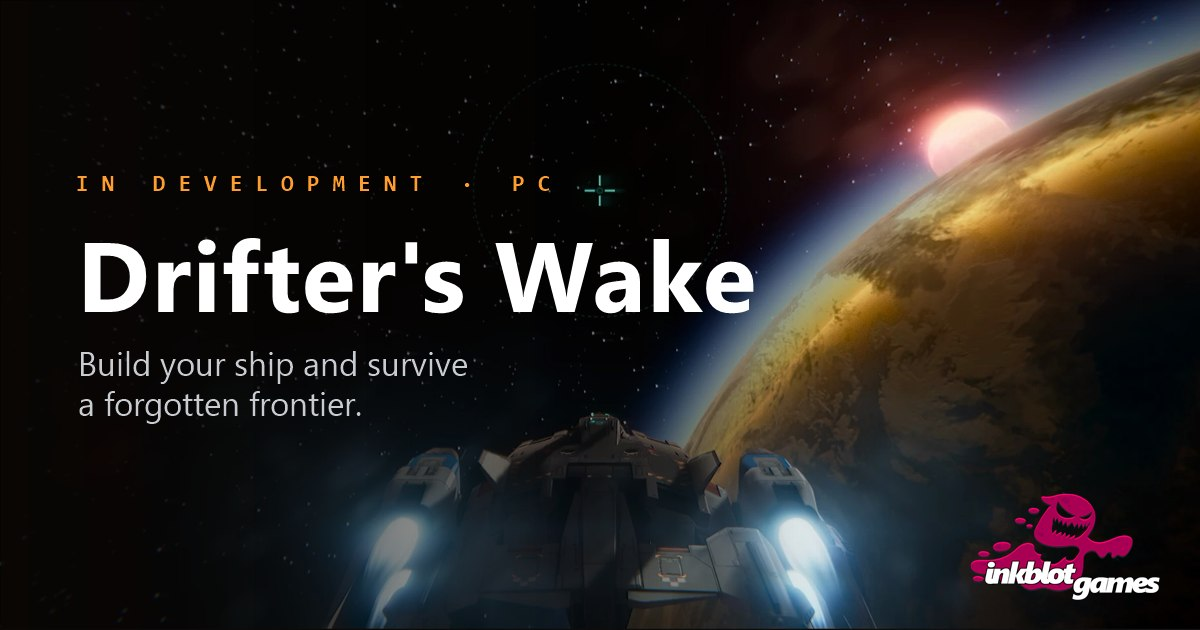
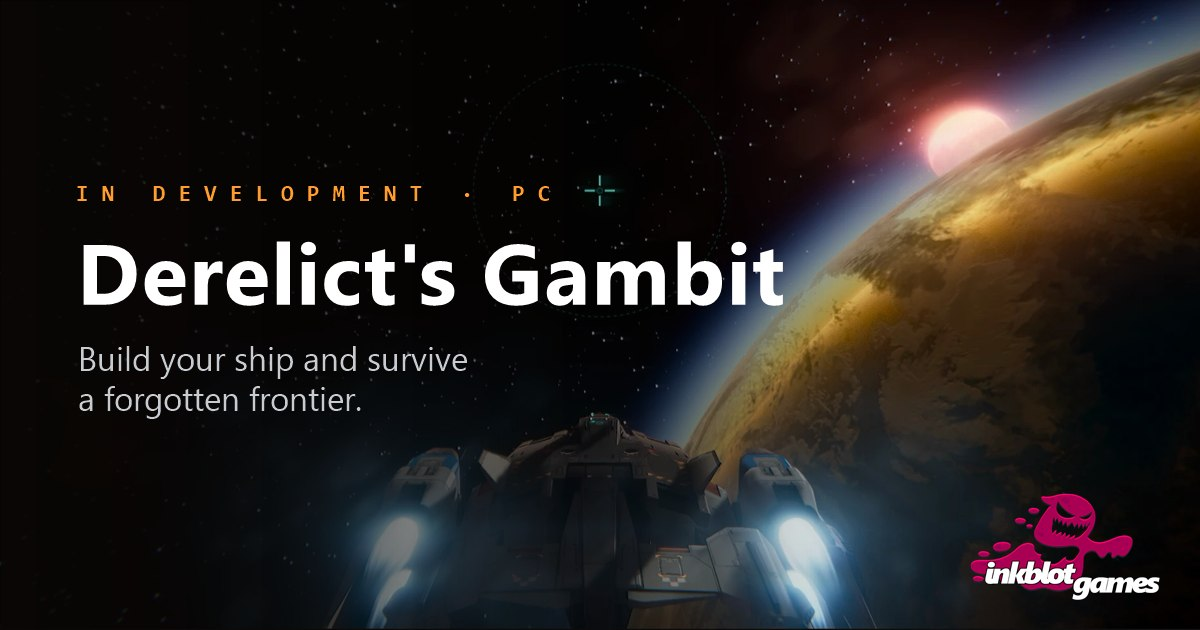
Rename the game to Derelict's Gambit
- Game page moves to /derelicts-gambit/; /drifters-wake/ redirects there
- Updated titles, meta tags, nav links, sitemap and the share image

diff --git a/drifters-wake/index.html b/drifters-wake/index.html
@@ -3,154 +3,15 @@
 <head>
   <meta charset="utf-8">
   <meta name="viewport" content="width=device-width, initial-scale=1">
-  <title>Drifter's Wake | Inkblot Games</title>
-  <meta name="description" content="Build your ship and survive a forgotten frontier. Explore derelicts, haul valuable salvage, and cross a seamless solar system.">
-  <meta property="og:title" content="Drifter's Wake">
-  <meta property="og:description" content="Build your ship and survive a forgotten frontier.">
-  <meta property="og:type" content="website">
-  <meta property="og:url" content="https://inkblotgames.co/drifters-wake/">
-  <meta property="og:image" content="https://inkblotgames.co/share-game.jpg">
-  <meta property="og:image:width" content="1200">
-  <meta property="og:image:height" content="630">
-  <meta name="twitter:card" content="summary_large_image">
-  <meta name="twitter:site" content="@InkblotGamesCo">
-  <link rel="canonical" href="https://inkblotgames.co/drifters-wake/">
+  <title>Derelict's Gambit | Inkblot Games</title>
+  <meta name="robots" content="noindex">
   <meta name="color-scheme" content="dark">
-  <meta name="darkreader-lock">
-  <meta name="theme-color" content="#0a0705">
-  <link rel="icon" href="../favicon.png" type="image/png">
-  <link rel="preconnect" href="https://fonts.googleapis.com">
-  <link rel="preconnect" href="https://fonts.gstatic.com" crossorigin>
-  <link rel="stylesheet" href="https://fonts.googleapis.com/css2?family=JetBrains+Mono:wght@400;700&family=Space+Grotesk:wght@400;500;700&display=swap">
-  <link rel="stylesheet" href="../style.css">
-  <script type="module" src="../site.js"></script>
+  <meta http-equiv="refresh" content="0; url=/derelicts-gambit/">
+  <link rel="canonical" href="https://inkblotgames.co/derelicts-gambit/">
+  <script>location.replace("/derelicts-gambit/" + location.hash);</script>
+  <style>body{margin:0;min-height:100vh;display:grid;place-items:center;background:#0a0705;color:#fff;font-family:system-ui,sans-serif}a{color:#ff9d2e}</style>
 </head>
-<body class="theme-game">
-  <nav class="nav">
-    <a class="nav-logo" href="../"><img src="../logo.png" alt="Inkblot Games" width="634" height="358"></a>
-    <ul>
-      <li><a href="#rim">The rim</a></li>
-      <li><a href="#game">Gameplay</a></li>
-      <li><a href="#media">Media</a></li>
-      <li><a href="#follow">Follow</a></li>
-    </ul>
-  </nav>
-
-  <header class="hero hero-game">
-    <img class="hero-bg" src="../screenshots/ship-sunrise.webp" alt="" width="1864" height="1127" fetchpriority="high">
-    <video class="hero-video" data-src="../video/hero.mp4" muted loop playsinline preload="none" aria-hidden="true" tabindex="-1"></video>
-    <div class="frame" aria-hidden="true"><i></i><i></i><i></i><i></i></div>
-    <p class="hud hud-tl"><span class="dot"></span>In development</p>
-    <p class="hud hud-tr">Early preview · PC</p>
-    <div class="hero-copy">
-      <p class="hud eyebrow">Working title</p>
-      <h1>Drifter's Wake</h1>
-      <p class="lede">Build your ship and survive a forgotten frontier. Explore derelicts, haul valuable salvage, and cross a seamless solar system. The fleet that vanished forty years ago is drifting back, and not everything is what it seems. Cosmic horrors lurk among the wrecks—and some can follow you home.</p>
-      <div class="btn-row">
-        <a class="btn" href="#media">See screenshots</a>
-        <a class="btn btn-ghost" href="https://www.youtube.com/@InkblotGamesCo/" rel="noopener" target="_blank"><svg class="btn-icon" width="18" height="18" viewBox="0 0 24 24" fill="currentColor" aria-hidden="true"><path d="M23.498 6.186a3.016 3.016 0 0 0-2.122-2.136C19.505 3.545 12 3.545 12 3.545s-7.505 0-9.377.505A3.017 3.017 0 0 0 .502 6.186C0 8.07 0 12 0 12s0 3.93.502 5.814a3.016 3.016 0 0 0 2.122 2.136c1.871.505 9.376.505 9.376.505s7.505 0 9.377-.505a3.015 3.015 0 0 0 2.122-2.136C24 15.93 24 12 24 12s0-3.93-.502-5.814zM9.545 15.568V8.432L15.818 12l-6.273 3.568z"/></svg>YouTube</a>
-        <a class="btn btn-ghost" href="/discord/" rel="noopener" target="_blank"><svg class="btn-icon" width="18" height="18" viewBox="0 0 24 24" fill="currentColor" aria-hidden="true"><path d="M20.317 4.3698a19.7913 19.7913 0 00-4.8851-1.5152.0741.0741 0 00-.0785.0371c-.211.3753-.4447.8648-.6083 1.2495-1.8447-.2762-3.68-.2762-5.4868 0-.1636-.3933-.4058-.8742-.6177-1.2495a.077.077 0 00-.0785-.037 19.7363 19.7363 0 00-4.8852 1.515.0699.0699 0 00-.0321.0277C.5334 9.0458-.319 13.5799.0992 18.0578a.0824.0824 0 00.0312.0561c2.0528 1.5076 4.0413 2.4228 5.9929 3.0294a.0777.0777 0 00.0842-.0276c.4616-.6304.8731-1.2952 1.226-1.9942a.076.076 0 00-.0416-.1057c-.6528-.2476-1.2743-.5495-1.8722-.8923a.077.077 0 01-.0076-.1277c.1258-.0943.2517-.1923.3718-.2914a.0743.0743 0 01.0776-.0105c3.9278 1.7933 8.18 1.7933 12.0614 0a.0739.0739 0 01.0785.0095c.1202.099.246.1981.3728.2924a.077.077 0 01-.0066.1276 12.2986 12.2986 0 01-1.873.8914.0766.0766 0 00-.0407.1067c.3604.698.7719 1.3628 1.225 1.9932a.076.076 0 00.0842.0286c1.961-.6067 3.9495-1.5219 6.0023-3.0294a.077.077 0 00.0313-.0552c.5004-5.177-.8382-9.6739-3.5485-13.6604a.061.061 0 00-.0312-.0286zM8.02 15.3312c-1.1825 0-2.1569-1.0857-2.1569-2.419 0-1.3332.9555-2.4189 2.157-2.4189 1.2108 0 2.1757 1.0952 2.1568 2.419 0 1.3332-.9555 2.4189-2.1569 2.4189zm7.9748 0c-1.1825 0-2.1569-1.0857-2.1569-2.419 0-1.3332.9554-2.4189 2.1569-2.4189 1.2108 0 2.1757 1.0952 2.1568 2.419 0 1.3332-.946 2.4189-2.1568 2.4189Z"/></svg>Join our Discord</a>
-      </div>
-    </div>
-  </header>
-
-  <main>
-    <div class="band">
-      <img class="band-bg" src="../screenshots/firefight.webp" alt="" width="2000" height="1125" loading="lazy">
-    <section id="rim" class="section reveal">
-      <p class="hud eyebrow">01 · The rim</p>
-      <h2>Too far out for anyone to send help.</h2>
-      <p class="lede">The rim colonies were outposts, built to wait for a fleet carrying everything they needed: fabricators, reactor cores, medicine, seed, and tens of thousands of colonists asleep in cryo. The fleet never arrived.</p>
-      <p class="lede">For forty years the rim has been eating itself. Stations are stripped to the frame. Settlements have gone quiet. The people still out here keep worn-out machines running and take what they need from whoever has it. A working air filter can be worth more than a gun, and people will kill for either.</p>
-
-      <h3 class="subhead">The ships are coming back wrong.</h3>
-      <p class="lede">Now and then one of the fleet's ships drifts home, dark and silent. A single reactor core can keep a settlement alive for another year, so everyone comes running, and they come armed.</p>
-      <p class="lede">Most of them are only wrecks. Some are not. Nobody on the rim agrees on where the fleet went. They agree that crews who board the wrong ship do not come back the same, if they come back at all.</p>
-    </section>
-    </div>
-
-    <div class="band">
-      <img class="band-bg" src="../screenshots/boarding-corridor.webp" alt="" width="2000" height="1128" loading="lazy">
-    <section id="game" class="section reveal">
-      <p class="hud eyebrow">02 · How it plays</p>
-      <h2>You're a salvager with a ship to keep alive.</h2>
-      <p class="lede">Answer a distress call, take a job, or chase a rumor of a wreck nobody has stripped yet. You never know what you've docked with until you're inside, or who else had the same idea. What you bring back gets built into your ship. More cargo space, a better workshop, backup life support: each one lets you travel farther out and survive what you find there.</p>
-
-      <div class="cards">
-        <article class="card">
-          <p class="hud">01 · Fly</p>
-          <h3>A seamless solar system</h3>
-          <p>Pilot your ship through combat, docking, and planetary approaches. On long crossings, leave the pilot's seat to repair and prepare while the ship flies on.</p>
-        </article>
-        <article class="card">
-          <p class="hud">02 · Salvage</p>
-          <h3>Hands-on salvage</h3>
-          <p>Restore power, cut through sealed doors, and carry out everything from pocket-sized supplies to bulky machinery. When something interrupts the haul, you put the prize down to draw your weapon.</p>
-        </article>
-        <article class="card">
-          <p class="hud">03 · Build</p>
-          <h3>Build your ship</h3>
-          <p>Design your ship from the hull up. Expand it section by section, lay out the interior, and install machinery pulled from wrecks. What you build decides what you can risk.</p>
-        </article>
-        <article class="card">
-          <p class="hud">04 · Survive</p>
-          <h3>Cosmic horror in the dark</h3>
-          <p>Most wrecks hold other salvagers, or nothing. A few hold changed crews and things with rules you have to learn. Sometimes the answer is escape.</p>
-        </article>
-      </div>
-    </section>
-    </div>
-
-    <section id="media" class="section section-wide reveal">
-      <p class="hud eyebrow">03 · Media</p>
-      <h2>Early preview.</h2>
-
-      <a class="banner" href="../screenshots/planet-horizon.webp"><img src="../screenshots/planet-horizon.webp" alt="A ship skims the edge of a planet's atmosphere with the sun beyond" width="2000" height="834" loading="lazy"></a>
-      <div class="gallery">
-        <a href="../screenshots/boarding-corridor.webp"><img src="../screenshots/boarding-corridor.webp" alt="An armed figure in a spacesuit with a glowing visor in a dark ship corridor" width="2000" height="1128" loading="lazy"></a>
-        <a href="../screenshots/ship-orbit.webp"><img src="../screenshots/ship-orbit.webp" alt="A ship with engines lit above a clouded blue planet" width="2000" height="1128" loading="lazy"></a>
-        <a href="../screenshots/ship-valley.webp"><img src="../screenshots/ship-valley.webp" alt="A close view of a twin-engine gunship banking low over a grassy mountain valley, pilot visible in the cockpit" width="2000" height="959" loading="lazy"></a>
-        <a href="../screenshots/hangar-combat.webp"><img src="../screenshots/hangar-combat.webp" alt="Over-the-shoulder rifle fire hitting an armored enemy in a hangar open to space" width="2000" height="1126" loading="lazy"></a>
-        <a href="../screenshots/cockpit-space.webp"><img src="../screenshots/cockpit-space.webp" alt="Cockpit view with green instrument panels facing a purple planet and the sun" width="2000" height="1129" loading="lazy"></a>
-        <a href="../screenshots/firefight.webp"><img src="../screenshots/firefight.webp" alt="A firefight in a burning cargo bay with sparks and an explosion" width="2000" height="1125" loading="lazy"></a>
-        <a href="../screenshots/cockpit-canyon.webp"><img src="../screenshots/cockpit-canyon.webp" alt="Cockpit view flying low through a mountain valley" width="2000" height="1123" loading="lazy"></a>
-        <a href="../screenshots/inventory.webp"><img src="../screenshots/inventory.webp" alt="Holographic inventory panels showing equipped weapons and looted ammunition" width="2000" height="1128" loading="lazy"></a>
-        <a href="../screenshots/ship-sunrise.webp"><img src="../screenshots/ship-sunrise.webp" alt="A ship flying toward a sunrise over a golden planet" width="1864" height="1127" loading="lazy"></a>
-      </div>
-      <div class="gallery gallery-wide">
-        <a href="../screenshots/moon-landing.webp"><img src="../screenshots/moon-landing.webp" alt="A figure in a spacesuit stands on a cratered surface beside a landed ship under a violet sky" width="2000" height="777" loading="lazy"></a>
-        <a href="../screenshots/violet-planet.webp"><img src="../screenshots/violet-planet.webp" alt="A ship seen from behind approaching a violet planet with an orange sun beyond" width="2000" height="798" loading="lazy"></a>
-      </div>
-      <a class="banner banner-end" href="../screenshots/ship-hills.webp"><img src="../screenshots/ship-hills.webp" alt="A delta-winged ship with twin engines lit flying low over rolling hills under a hazy sky" width="2000" height="811" loading="lazy"></a>
-      <p class="hud caption">Work in progress · Everything subject to change</p>
-    </section>
-
-    <div class="band band-tall">
-      <img class="band-bg band-bg-flip" src="../screenshots/ship-hills.webp" alt="" width="2000" height="811" loading="lazy">
-    <section id="follow" class="section reveal">
-      <p class="hud eyebrow">04 · Follow</p>
-      <h2>Follow development.</h2>
-      <form class="signup" action="https://app.kit.com/forms/9936518/subscriptions" method="post" target="_blank">
-        <label class="hud" for="signup-email">Get development updates by email</label>
-        <div class="signup-row">
-          <input id="signup-email" type="email" name="email_address" placeholder="Your email" autocomplete="email" required>
-          <button class="btn" type="submit">Subscribe</button>
-        </div>
-        <p class="signup-note" role="status">Occasional updates on the game. Unsubscribe any time.</p>
-      </form>
-      <div class="btn-row">
-        <a class="btn btn-ghost" href="https://www.youtube.com/@InkblotGamesCo/" rel="noopener" target="_blank"><svg class="btn-icon" width="18" height="18" viewBox="0 0 24 24" fill="currentColor" aria-hidden="true"><path d="M23.498 6.186a3.016 3.016 0 0 0-2.122-2.136C19.505 3.545 12 3.545 12 3.545s-7.505 0-9.377.505A3.017 3.017 0 0 0 .502 6.186C0 8.07 0 12 0 12s0 3.93.502 5.814a3.016 3.016 0 0 0 2.122 2.136c1.871.505 9.376.505 9.376.505s7.505 0 9.377-.505a3.015 3.015 0 0 0 2.122-2.136C24 15.93 24 12 24 12s0-3.93-.502-5.814zM9.545 15.568V8.432L15.818 12l-6.273 3.568z"/></svg>YouTube</a>
-        <a class="btn btn-ghost" href="/discord/" rel="noopener" target="_blank"><svg class="btn-icon" width="18" height="18" viewBox="0 0 24 24" fill="currentColor" aria-hidden="true"><path d="M20.317 4.3698a19.7913 19.7913 0 00-4.8851-1.5152.0741.0741 0 00-.0785.0371c-.211.3753-.4447.8648-.6083 1.2495-1.8447-.2762-3.68-.2762-5.4868 0-.1636-.3933-.4058-.8742-.6177-1.2495a.077.077 0 00-.0785-.037 19.7363 19.7363 0 00-4.8852 1.515.0699.0699 0 00-.0321.0277C.5334 9.0458-.319 13.5799.0992 18.0578a.0824.0824 0 00.0312.0561c2.0528 1.5076 4.0413 2.4228 5.9929 3.0294a.0777.0777 0 00.0842-.0276c.4616-.6304.8731-1.2952 1.226-1.9942a.076.076 0 00-.0416-.1057c-.6528-.2476-1.2743-.5495-1.8722-.8923a.077.077 0 01-.0076-.1277c.1258-.0943.2517-.1923.3718-.2914a.0743.0743 0 01.0776-.0105c3.9278 1.7933 8.18 1.7933 12.0614 0a.0739.0739 0 01.0785.0095c.1202.099.246.1981.3728.2924a.077.077 0 01-.0066.1276 12.2986 12.2986 0 01-1.873.8914.0766.0766 0 00-.0407.1067c.3604.698.7719 1.3628 1.225 1.9932a.076.076 0 00.0842.0286c1.961-.6067 3.9495-1.5219 6.0023-3.0294a.077.077 0 00.0313-.0552c.5004-5.177-.8382-9.6739-3.5485-13.6604a.061.061 0 00-.0312-.0286zM8.02 15.3312c-1.1825 0-2.1569-1.0857-2.1569-2.419 0-1.3332.9555-2.4189 2.157-2.4189 1.2108 0 2.1757 1.0952 2.1568 2.419 0 1.3332-.9555 2.4189-2.1569 2.4189zm7.9748 0c-1.1825 0-2.1569-1.0857-2.1569-2.419 0-1.3332.9554-2.4189 2.1569-2.4189 1.2108 0 2.1757 1.0952 2.1568 2.419 0 1.3332-.946 2.4189-2.1568 2.4189Z"/></svg>Join our Discord</a>
-        <a class="btn btn-ghost" href="https://x.com/InkblotGamesCo" rel="noopener" target="_blank"><svg class="btn-icon" width="18" height="18" viewBox="0 0 24 24" fill="currentColor" aria-hidden="true"><path d="M14.234 10.162 22.977 0h-2.072l-7.591 8.824L7.251 0H.258l9.168 13.343L.258 24H2.33l8.016-9.318L16.749 24h6.993zm-2.837 3.299-.929-1.329L3.076 1.56h3.182l5.965 8.532.929 1.329 7.754 11.09h-3.182z"/></svg>X / Twitter</a>
-      </div>
-    </section>
-    </div>
-  </main>
-
-  <footer class="footer">
-    <a href="../"><img src="../logo.png" alt="Inkblot Games" width="634" height="358"></a>
-    <p class="hud">&copy; 2026 Inkblot Games · <a href="../privacy/">Privacy</a></p>
-  </footer>
-  <!-- Cloudflare Web Analytics --><script type='module' src='https://static.cloudflareinsights.com/beacon.min.js' data-cf-beacon='{"token": "a8c0bb53f3c04a39a80986ec28a98ecd"}'></script><!-- End Cloudflare Web Analytics -->
+<body>
+  <p>This page has moved to <a href="/derelicts-gambit/">Derelict's Gambit</a>.</p>
 </body>
 </html>

diff --git a/derelicts-gambit/index.html b/derelicts-gambit/index.html
@@ -1,0 +1,156 @@
+<!doctype html>
+<html lang="en">
+<head>
+  <meta charset="utf-8">
+  <meta name="viewport" content="width=device-width, initial-scale=1">
+  <title>Derelict's Gambit | Inkblot Games</title>
+  <meta name="description" content="Build your ship and survive a forgotten frontier. Explore derelicts, haul valuable salvage, and cross a seamless solar system.">
+  <meta property="og:title" content="Derelict's Gambit">
+  <meta property="og:description" content="Build your ship and survive a forgotten frontier.">
+  <meta property="og:type" content="website">
+  <meta property="og:url" content="https://inkblotgames.co/derelicts-gambit/">
+  <meta property="og:image" content="https://inkblotgames.co/share-game.jpg">
+  <meta property="og:image:width" content="1200">
+  <meta property="og:image:height" content="630">
+  <meta name="twitter:card" content="summary_large_image">
+  <meta name="twitter:site" content="@InkblotGamesCo">
+  <link rel="canonical" href="https://inkblotgames.co/derelicts-gambit/">
+  <meta name="color-scheme" content="dark">
+  <meta name="darkreader-lock">
+  <meta name="theme-color" content="#0a0705">
+  <link rel="icon" href="../favicon.png" type="image/png">
+  <link rel="preconnect" href="https://fonts.googleapis.com">
+  <link rel="preconnect" href="https://fonts.gstatic.com" crossorigin>
+  <link rel="stylesheet" href="https://fonts.googleapis.com/css2?family=JetBrains+Mono:wght@400;700&family=Space+Grotesk:wght@400;500;700&display=swap">
+  <link rel="stylesheet" href="../style.css">
+  <script type="module" src="../site.js"></script>
+</head>
+<body class="theme-game">
+  <nav class="nav">
+    <a class="nav-logo" href="../"><img src="../logo.png" alt="Inkblot Games" width="634" height="358"></a>
+    <ul>
+      <li><a href="#rim">The rim</a></li>
+      <li><a href="#game">Gameplay</a></li>
+      <li><a href="#media">Media</a></li>
+      <li><a href="#follow">Follow</a></li>
+    </ul>
+  </nav>
+
+  <header class="hero hero-game">
+    <img class="hero-bg" src="../screenshots/ship-sunrise.webp" alt="" width="1864" height="1127" fetchpriority="high">
+    <video class="hero-video" data-src="../video/hero.mp4" muted loop playsinline preload="none" aria-hidden="true" tabindex="-1"></video>
+    <div class="frame" aria-hidden="true"><i></i><i></i><i></i><i></i></div>
+    <p class="hud hud-tl"><span class="dot"></span>In development</p>
+    <p class="hud hud-tr">Early preview · PC</p>
+    <div class="hero-copy">
+      <p class="hud eyebrow">Working title</p>
+      <h1>Derelict's Gambit</h1>
+      <p class="lede">Build your ship and survive a forgotten frontier. Explore derelicts, haul valuable salvage, and cross a seamless solar system. The fleet that vanished forty years ago is drifting back, and not everything is what it seems. Cosmic horrors lurk among the wrecks—and some can follow you home.</p>
+      <div class="btn-row">
+        <a class="btn" href="#media">See screenshots</a>
+        <a class="btn btn-ghost" href="https://www.youtube.com/@InkblotGamesCo/" rel="noopener" target="_blank"><svg class="btn-icon" width="18" height="18" viewBox="0 0 24 24" fill="currentColor" aria-hidden="true"><path d="M23.498 6.186a3.016 3.016 0 0 0-2.122-2.136C19.505 3.545 12 3.545 12 3.545s-7.505 0-9.377.505A3.017 3.017 0 0 0 .502 6.186C0 8.07 0 12 0 12s0 3.93.502 5.814a3.016 3.016 0 0 0 2.122 2.136c1.871.505 9.376.505 9.376.505s7.505 0 9.377-.505a3.015 3.015 0 0 0 2.122-2.136C24 15.93 24 12 24 12s0-3.93-.502-5.814zM9.545 15.568V8.432L15.818 12l-6.273 3.568z"/></svg>YouTube</a>
+        <a class="btn btn-ghost" href="/discord/" rel="noopener" target="_blank"><svg class="btn-icon" width="18" height="18" viewBox="0 0 24 24" fill="currentColor" aria-hidden="true"><path d="M20.317 4.3698a19.7913 19.7913 0 00-4.8851-1.5152.0741.0741 0 00-.0785.0371c-.211.3753-.4447.8648-.6083 1.2495-1.8447-.2762-3.68-.2762-5.4868 0-.1636-.3933-.4058-.8742-.6177-1.2495a.077.077 0 00-.0785-.037 19.7363 19.7363 0 00-4.8852 1.515.0699.0699 0 00-.0321.0277C.5334 9.0458-.319 13.5799.0992 18.0578a.0824.0824 0 00.0312.0561c2.0528 1.5076 4.0413 2.4228 5.9929 3.0294a.0777.0777 0 00.0842-.0276c.4616-.6304.8731-1.2952 1.226-1.9942a.076.076 0 00-.0416-.1057c-.6528-.2476-1.2743-.5495-1.8722-.8923a.077.077 0 01-.0076-.1277c.1258-.0943.2517-.1923.3718-.2914a.0743.0743 0 01.0776-.0105c3.9278 1.7933 8.18 1.7933 12.0614 0a.0739.0739 0 01.0785.0095c.1202.099.246.1981.3728.2924a.077.077 0 01-.0066.1276 12.2986 12.2986 0 01-1.873.8914.0766.0766 0 00-.0407.1067c.3604.698.7719 1.3628 1.225 1.9932a.076.076 0 00.0842.0286c1.961-.6067 3.9495-1.5219 6.0023-3.0294a.077.077 0 00.0313-.0552c.5004-5.177-.8382-9.6739-3.5485-13.6604a.061.061 0 00-.0312-.0286zM8.02 15.3312c-1.1825 0-2.1569-1.0857-2.1569-2.419 0-1.3332.9555-2.4189 2.157-2.4189 1.2108 0 2.1757 1.0952 2.1568 2.419 0 1.3332-.9555 2.4189-2.1569 2.4189zm7.9748 0c-1.1825 0-2.1569-1.0857-2.1569-2.419 0-1.3332.9554-2.4189 2.1569-2.4189 1.2108 0 2.1757 1.0952 2.1568 2.419 0 1.3332-.946 2.4189-2.1568 2.4189Z"/></svg>Join our Discord</a>
+      </div>
+    </div>
+  </header>
+
+  <main>
+    <div class="band">
+      <img class="band-bg" src="../screenshots/firefight.webp" alt="" width="2000" height="1125" loading="lazy">
+    <section id="rim" class="section reveal">
+      <p class="hud eyebrow">01 · The rim</p>
+      <h2>Too far out for anyone to send help.</h2>
+      <p class="lede">The rim colonies were outposts, built to wait for a fleet carrying everything they needed: fabricators, reactor cores, medicine, seed, and tens of thousands of colonists asleep in cryo. The fleet never arrived.</p>
+      <p class="lede">For forty years the rim has been eating itself. Stations are stripped to the frame. Settlements have gone quiet. The people still out here keep worn-out machines running and take what they need from whoever has it. A working air filter can be worth more than a gun, and people will kill for either.</p>
+
+      <h3 class="subhead">The ships are coming back wrong.</h3>
+      <p class="lede">Now and then one of the fleet's ships drifts home, dark and silent. A single reactor core can keep a settlement alive for another year, so everyone comes running, and they come armed.</p>
+      <p class="lede">Most of them are only wrecks. Some are not. Nobody on the rim agrees on where the fleet went. They agree that crews who board the wrong ship do not come back the same, if they come back at all.</p>
+    </section>
+    </div>
+
+    <div class="band">
+      <img class="band-bg" src="../screenshots/boarding-corridor.webp" alt="" width="2000" height="1128" loading="lazy">
+    <section id="game" class="section reveal">
+      <p class="hud eyebrow">02 · How it plays</p>
+      <h2>You're a salvager with a ship to keep alive.</h2>
+      <p class="lede">Answer a distress call, take a job, or chase a rumor of a wreck nobody has stripped yet. You never know what you've docked with until you're inside, or who else had the same idea. What you bring back gets built into your ship. More cargo space, a better workshop, backup life support: each one lets you travel farther out and survive what you find there.</p>
+
+      <div class="cards">
+        <article class="card">
+          <p class="hud">01 · Fly</p>
+          <h3>A seamless solar system</h3>
+          <p>Pilot your ship through combat, docking, and planetary approaches. On long crossings, leave the pilot's seat to repair and prepare while the ship flies on.</p>
+        </article>
+        <article class="card">
+          <p class="hud">02 · Salvage</p>
+          <h3>Hands-on salvage</h3>
+          <p>Restore power, cut through sealed doors, and carry out everything from pocket-sized supplies to bulky machinery. When something interrupts the haul, you put the prize down to draw your weapon.</p>
+        </article>
+        <article class="card">
+          <p class="hud">03 · Build</p>
+          <h3>Build your ship</h3>
+          <p>Design your ship from the hull up. Expand it section by section, lay out the interior, and install machinery pulled from wrecks. What you build decides what you can risk.</p>
+        </article>
+        <article class="card">
+          <p class="hud">04 · Survive</p>
+          <h3>Cosmic horror in the dark</h3>
+          <p>Most wrecks hold other salvagers, or nothing. A few hold changed crews and things with rules you have to learn. Sometimes the answer is escape.</p>
+        </article>
+      </div>
+    </section>
+    </div>
+
+    <section id="media" class="section section-wide reveal">
+      <p class="hud eyebrow">03 · Media</p>
+      <h2>Early preview.</h2>
+
+      <a class="banner" href="../screenshots/planet-horizon.webp"><img src="../screenshots/planet-horizon.webp" alt="A ship skims the edge of a planet's atmosphere with the sun beyond" width="2000" height="834" loading="lazy"></a>
+      <div class="gallery">
+        <a href="../screenshots/boarding-corridor.webp"><img src="../screenshots/boarding-corridor.webp" alt="An armed figure in a spacesuit with a glowing visor in a dark ship corridor" width="2000" height="1128" loading="lazy"></a>
+        <a href="../screenshots/ship-orbit.webp"><img src="../screenshots/ship-orbit.webp" alt="A ship with engines lit above a clouded blue planet" width="2000" height="1128" loading="lazy"></a>
+        <a href="../screenshots/ship-valley.webp"><img src="../screenshots/ship-valley.webp" alt="A close view of a twin-engine gunship banking low over a grassy mountain valley, pilot visible in the cockpit" width="2000" height="959" loading="lazy"></a>
+        <a href="../screenshots/hangar-combat.webp"><img src="../screenshots/hangar-combat.webp" alt="Over-the-shoulder rifle fire hitting an armored enemy in a hangar open to space" width="2000" height="1126" loading="lazy"></a>
+        <a href="../screenshots/cockpit-space.webp"><img src="../screenshots/cockpit-space.webp" alt="Cockpit view with green instrument panels facing a purple planet and the sun" width="2000" height="1129" loading="lazy"></a>
+        <a href="../screenshots/firefight.webp"><img src="../screenshots/firefight.webp" alt="A firefight in a burning cargo bay with sparks and an explosion" width="2000" height="1125" loading="lazy"></a>
+        <a href="../screenshots/cockpit-canyon.webp"><img src="../screenshots/cockpit-canyon.webp" alt="Cockpit view flying low through a mountain valley" width="2000" height="1123" loading="lazy"></a>
+        <a href="../screenshots/inventory.webp"><img src="../screenshots/inventory.webp" alt="Holographic inventory panels showing equipped weapons and looted ammunition" width="2000" height="1128" loading="lazy"></a>
+        <a href="../screenshots/ship-sunrise.webp"><img src="../screenshots/ship-sunrise.webp" alt="A ship flying toward a sunrise over a golden planet" width="1864" height="1127" loading="lazy"></a>
+      </div>
+      <div class="gallery gallery-wide">
+        <a href="../screenshots/moon-landing.webp"><img src="../screenshots/moon-landing.webp" alt="A figure in a spacesuit stands on a cratered surface beside a landed ship under a violet sky" width="2000" height="777" loading="lazy"></a>
+        <a href="../screenshots/violet-planet.webp"><img src="../screenshots/violet-planet.webp" alt="A ship seen from behind approaching a violet planet with an orange sun beyond" width="2000" height="798" loading="lazy"></a>
+      </div>
+      <a class="banner banner-end" href="../screenshots/ship-hills.webp"><img src="../screenshots/ship-hills.webp" alt="A delta-winged ship with twin engines lit flying low over rolling hills under a hazy sky" width="2000" height="811" loading="lazy"></a>
+      <p class="hud caption">Work in progress · Everything subject to change</p>
+    </section>
+
+    <div class="band band-tall">
+      <img class="band-bg band-bg-flip" src="../screenshots/ship-hills.webp" alt="" width="2000" height="811" loading="lazy">
+    <section id="follow" class="section reveal">
+      <p class="hud eyebrow">04 · Follow</p>
+      <h2>Follow development.</h2>
+      <form class="signup" action="https://app.kit.com/forms/9936518/subscriptions" method="post" target="_blank">
+        <label class="hud" for="signup-email">Get development updates by email</label>
+        <div class="signup-row">
+          <input id="signup-email" type="email" name="email_address" placeholder="Your email" autocomplete="email" required>
+          <button class="btn" type="submit">Subscribe</button>
+        </div>
+        <p class="signup-note" role="status">Occasional updates on the game. Unsubscribe any time.</p>
+      </form>
+      <div class="btn-row">
+        <a class="btn btn-ghost" href="https://www.youtube.com/@InkblotGamesCo/" rel="noopener" target="_blank"><svg class="btn-icon" width="18" height="18" viewBox="0 0 24 24" fill="currentColor" aria-hidden="true"><path d="M23.498 6.186a3.016 3.016 0 0 0-2.122-2.136C19.505 3.545 12 3.545 12 3.545s-7.505 0-9.377.505A3.017 3.017 0 0 0 .502 6.186C0 8.07 0 12 0 12s0 3.93.502 5.814a3.016 3.016 0 0 0 2.122 2.136c1.871.505 9.376.505 9.376.505s7.505 0 9.377-.505a3.015 3.015 0 0 0 2.122-2.136C24 15.93 24 12 24 12s0-3.93-.502-5.814zM9.545 15.568V8.432L15.818 12l-6.273 3.568z"/></svg>YouTube</a>
+        <a class="btn btn-ghost" href="/discord/" rel="noopener" target="_blank"><svg class="btn-icon" width="18" height="18" viewBox="0 0 24 24" fill="currentColor" aria-hidden="true"><path d="M20.317 4.3698a19.7913 19.7913 0 00-4.8851-1.5152.0741.0741 0 00-.0785.0371c-.211.3753-.4447.8648-.6083 1.2495-1.8447-.2762-3.68-.2762-5.4868 0-.1636-.3933-.4058-.8742-.6177-1.2495a.077.077 0 00-.0785-.037 19.7363 19.7363 0 00-4.8852 1.515.0699.0699 0 00-.0321.0277C.5334 9.0458-.319 13.5799.0992 18.0578a.0824.0824 0 00.0312.0561c2.0528 1.5076 4.0413 2.4228 5.9929 3.0294a.0777.0777 0 00.0842-.0276c.4616-.6304.8731-1.2952 1.226-1.9942a.076.076 0 00-.0416-.1057c-.6528-.2476-1.2743-.5495-1.8722-.8923a.077.077 0 01-.0076-.1277c.1258-.0943.2517-.1923.3718-.2914a.0743.0743 0 01.0776-.0105c3.9278 1.7933 8.18 1.7933 12.0614 0a.0739.0739 0 01.0785.0095c.1202.099.246.1981.3728.2924a.077.077 0 01-.0066.1276 12.2986 12.2986 0 01-1.873.8914.0766.0766 0 00-.0407.1067c.3604.698.7719 1.3628 1.225 1.9932a.076.076 0 00.0842.0286c1.961-.6067 3.9495-1.5219 6.0023-3.0294a.077.077 0 00.0313-.0552c.5004-5.177-.8382-9.6739-3.5485-13.6604a.061.061 0 00-.0312-.0286zM8.02 15.3312c-1.1825 0-2.1569-1.0857-2.1569-2.419 0-1.3332.9555-2.4189 2.157-2.4189 1.2108 0 2.1757 1.0952 2.1568 2.419 0 1.3332-.9555 2.4189-2.1569 2.4189zm7.9748 0c-1.1825 0-2.1569-1.0857-2.1569-2.419 0-1.3332.9554-2.4189 2.1569-2.4189 1.2108 0 2.1757 1.0952 2.1568 2.419 0 1.3332-.946 2.4189-2.1568 2.4189Z"/></svg>Join our Discord</a>
+        <a class="btn btn-ghost" href="https://x.com/InkblotGamesCo" rel="noopener" target="_blank"><svg class="btn-icon" width="18" height="18" viewBox="0 0 24 24" fill="currentColor" aria-hidden="true"><path d="M14.234 10.162 22.977 0h-2.072l-7.591 8.824L7.251 0H.258l9.168 13.343L.258 24H2.33l8.016-9.318L16.749 24h6.993zm-2.837 3.299-.929-1.329L3.076 1.56h3.182l5.965 8.532.929 1.329 7.754 11.09h-3.182z"/></svg>X / Twitter</a>
+      </div>
+    </section>
+    </div>
+  </main>
+
+  <footer class="footer">
+    <a href="../"><img src="../logo.png" alt="Inkblot Games" width="634" height="358"></a>
+    <p class="hud">&copy; 2026 Inkblot Games · <a href="../privacy/">Privacy</a></p>
+  </footer>
+  <!-- Cloudflare Web Analytics --><script type='module' src='https://static.cloudflareinsights.com/beacon.min.js' data-cf-beacon='{"token": "a8c0bb53f3c04a39a80986ec28a98ecd"}'></script><!-- End Cloudflare Web Analytics -->
+</body>
+</html>

diff --git a/index.html b/index.html
@@ -4,9 +4,9 @@
   <meta charset="utf-8">
   <meta name="viewport" content="width=device-width, initial-scale=1">
   <title>Inkblot Games</title>
-  <meta name="description" content="Inkblot Games is an independent game studio. Now in development: Drifter's Wake, a space salvage survival horror game.">
+  <meta name="description" content="Inkblot Games is an independent game studio. Now in development: Derelict's Gambit, a space salvage survival horror game.">
   <meta property="og:title" content="Inkblot Games">
-  <meta property="og:description" content="Independent game studio. Now in development: Drifter's Wake.">
+  <meta property="og:description" content="Independent game studio. Now in development: Derelict's Gambit.">
   <meta property="og:type" content="website">
   <meta property="og:url" content="https://inkblotgames.co/">
   <meta property="og:image" content="https://inkblotgames.co/share-studio.jpg">
@@ -47,11 +47,11 @@
   <main>
     <section id="games" class="section reveal">
       <p class="hud eyebrow">01 · Games</p>
-      <a class="game-card" href="drifters-wake/">
+      <a class="game-card" href="derelicts-gambit/">
         <img src="screenshots/ship-orbit.webp" alt="A ship with engines lit above a clouded blue planet" width="2000" height="1128">
         <div class="game-card-body">
           <p class="hud"><span class="dot"></span>In development · PC</p>
-          <h2>Drifter's Wake</h2>
+          <h2>Derelict's Gambit</h2>
           <p>Build your ship and survive a forgotten frontier.</p>
           <span class="btn">View game</span>
         </div>

diff --git a/404.html b/404.html
@@ -20,7 +20,7 @@
     <a class="nav-logo" href="/"><img src="/logo.png" alt="Inkblot Games" width="634" height="358"></a>
     <ul>
       <li><a href="/">Home</a></li>
-      <li><a href="/drifters-wake/">Drifter's Wake</a></li>
+      <li><a href="/derelicts-gambit/">Derelict's Gambit</a></li>
     </ul>
   </nav>
 
@@ -31,7 +31,7 @@
       <p class="lede">That page doesn't exist, or it drifted off. Head back and try again.</p>
       <div class="btn-row">
         <a class="btn" href="/">Inkblot Games</a>
-        <a class="btn btn-ghost" href="/drifters-wake/">Drifter's Wake</a>
+        <a class="btn btn-ghost" href="/derelicts-gambit/">Derelict's Gambit</a>
       </div>
     </section>
   </main>

diff --git a/privacy/index.html b/privacy/index.html
@@ -21,7 +21,7 @@
     <a class="nav-logo" href="/"><img src="/logo.png" alt="Inkblot Games" width="634" height="358"></a>
     <ul>
       <li><a href="/">Home</a></li>
-      <li><a href="/drifters-wake/">Drifter's Wake</a></li>
+      <li><a href="/derelicts-gambit/">Derelict's Gambit</a></li>
     </ul>
   </nav>
 

diff --git a/style.css b/style.css
@@ -17,7 +17,7 @@
   color-scheme: dark;
 }
 
-/* Drifter's Wake: amber on warm black, from the visor glow, fires and sun in the footage */
+/* Derelict's Gambit: amber on warm black, from the visor glow, fires and sun in the footage */
 .theme-game {
   --bg: #0a0705;
   --navy: #1a120b;
